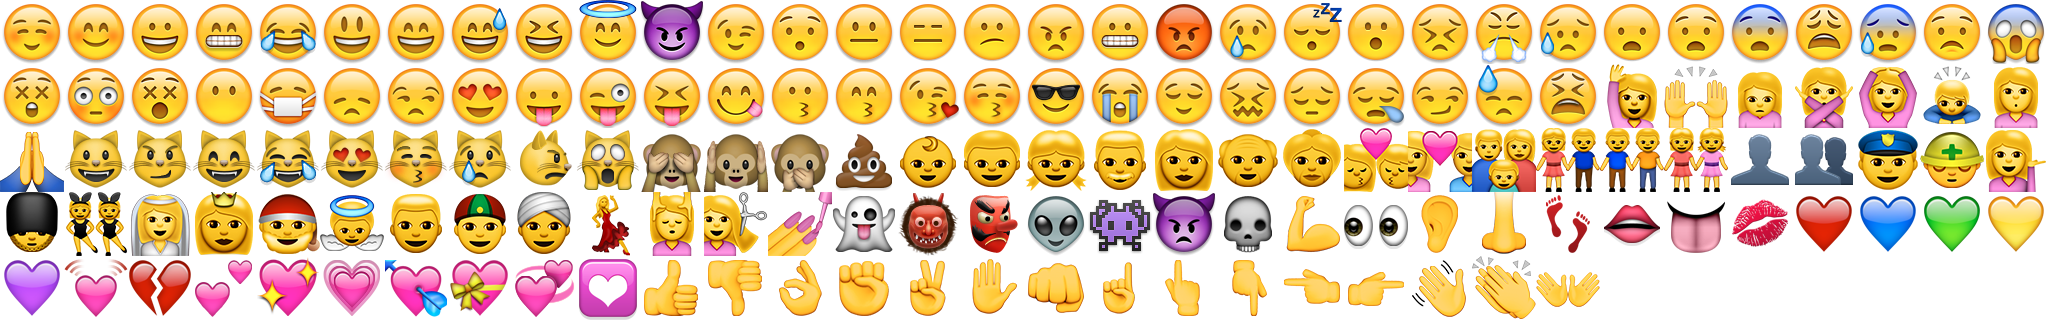
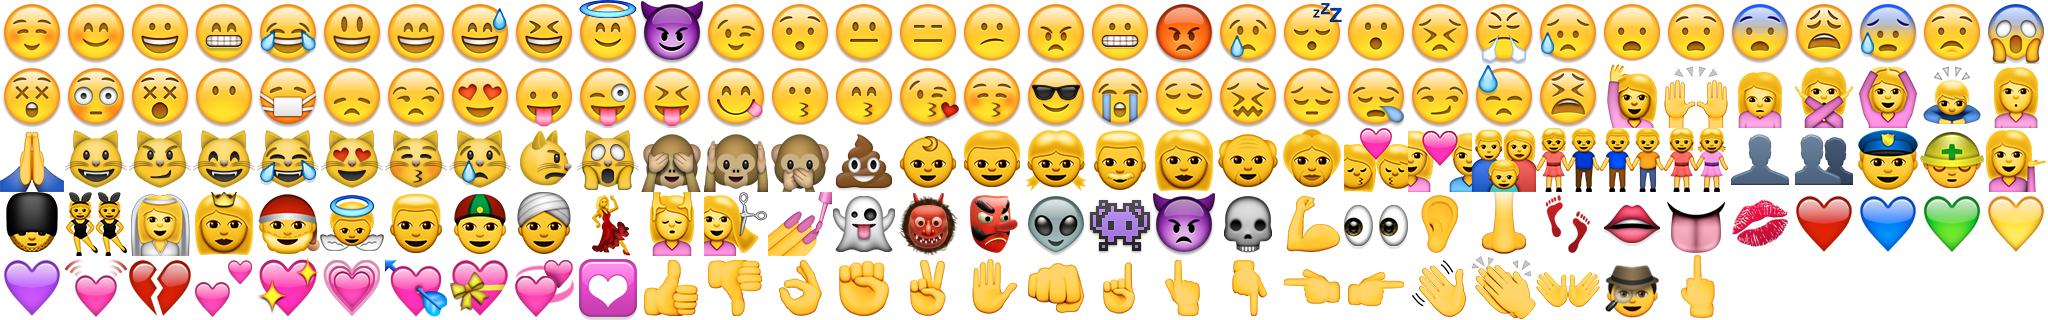
Added 🕵&🖕 emoji
Added 🕵&🖕 emoji

Changed region(s): [[0.7812, 0.8125, 0.8438, 1.0]]

diff --git a/src/org/thoughtcrime/securesms/components/emoji/EmojiPages.java b/src/org/thoughtcrime/securesms/components/emoji/EmojiPages.java
@@ -33,7 +33,7 @@ public class EmojiPages {
       "\ud83d\udc96", "\ud83d\udc97", "\ud83d\udc98", "\ud83d\udc9d", "\ud83d\udc9e", "\ud83d\udc9f",
       "\ud83d\udc4d", "\ud83d\udc4e", "\ud83d\udc4c", "\u270a",       "\u270c",       "\u270b",
       "\ud83d\udc4a", "\u261d",       "\ud83d\udc46", "\ud83d\udc47", "\ud83d\udc48", "\ud83d\udc49",
-      "\ud83d\udc4b", "\ud83d\udc4f", "\ud83d\udc50",
+      "\ud83d\udc4b", "\ud83d\udc4f", "\ud83d\udc50", "\ud83d\udd75", "\ud83d\udd95",
     }, "emoji-people.png"),
     new StaticEmojiPageModel(R.attr.emoji_category_objects, new String[] {
       "\ud83d\udd30", "\ud83d\udc84", "\ud83d\udc5e", "\ud83d\udc5f", "\ud83d\udc51", "\ud83d\udc52",
